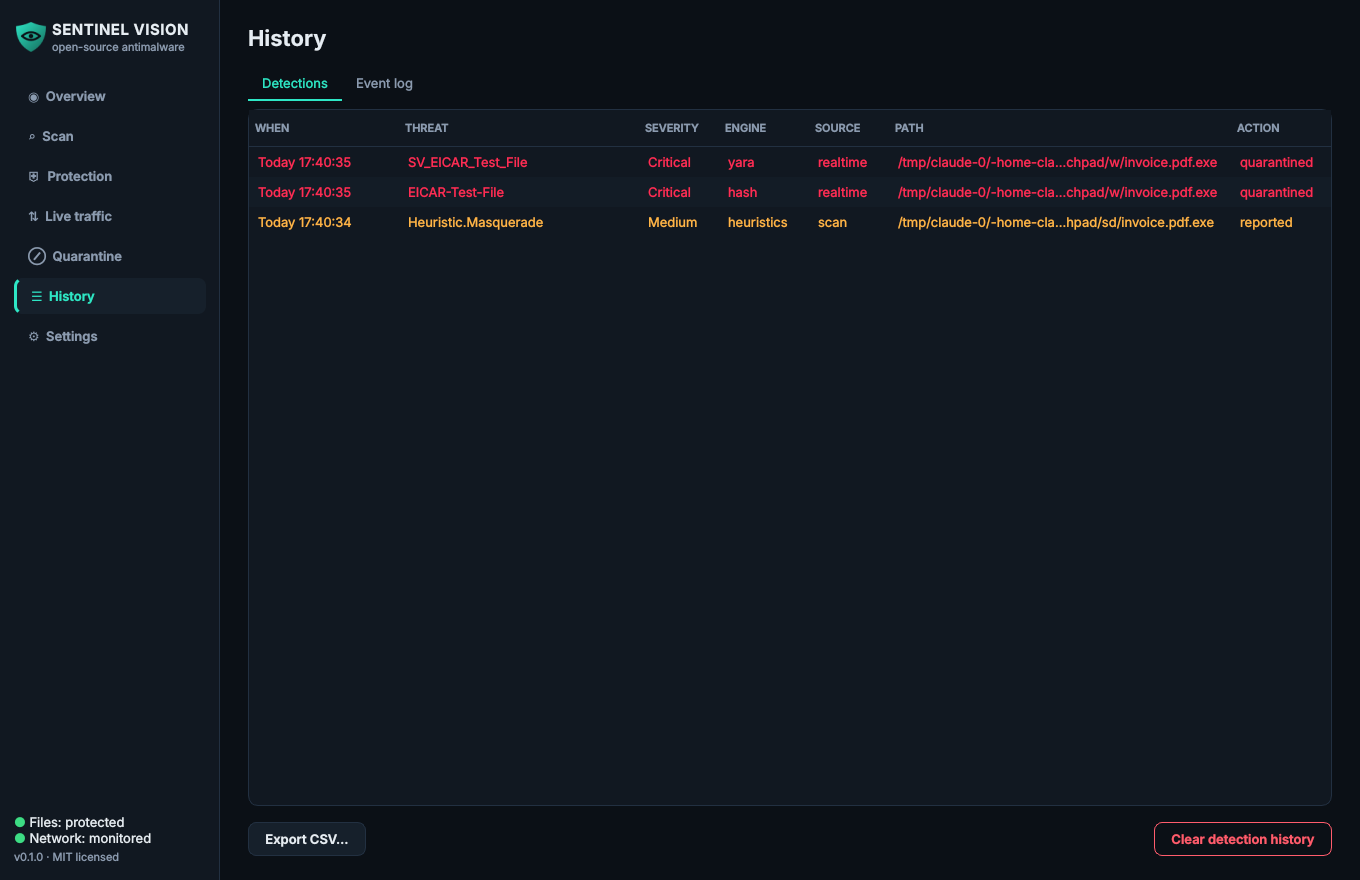
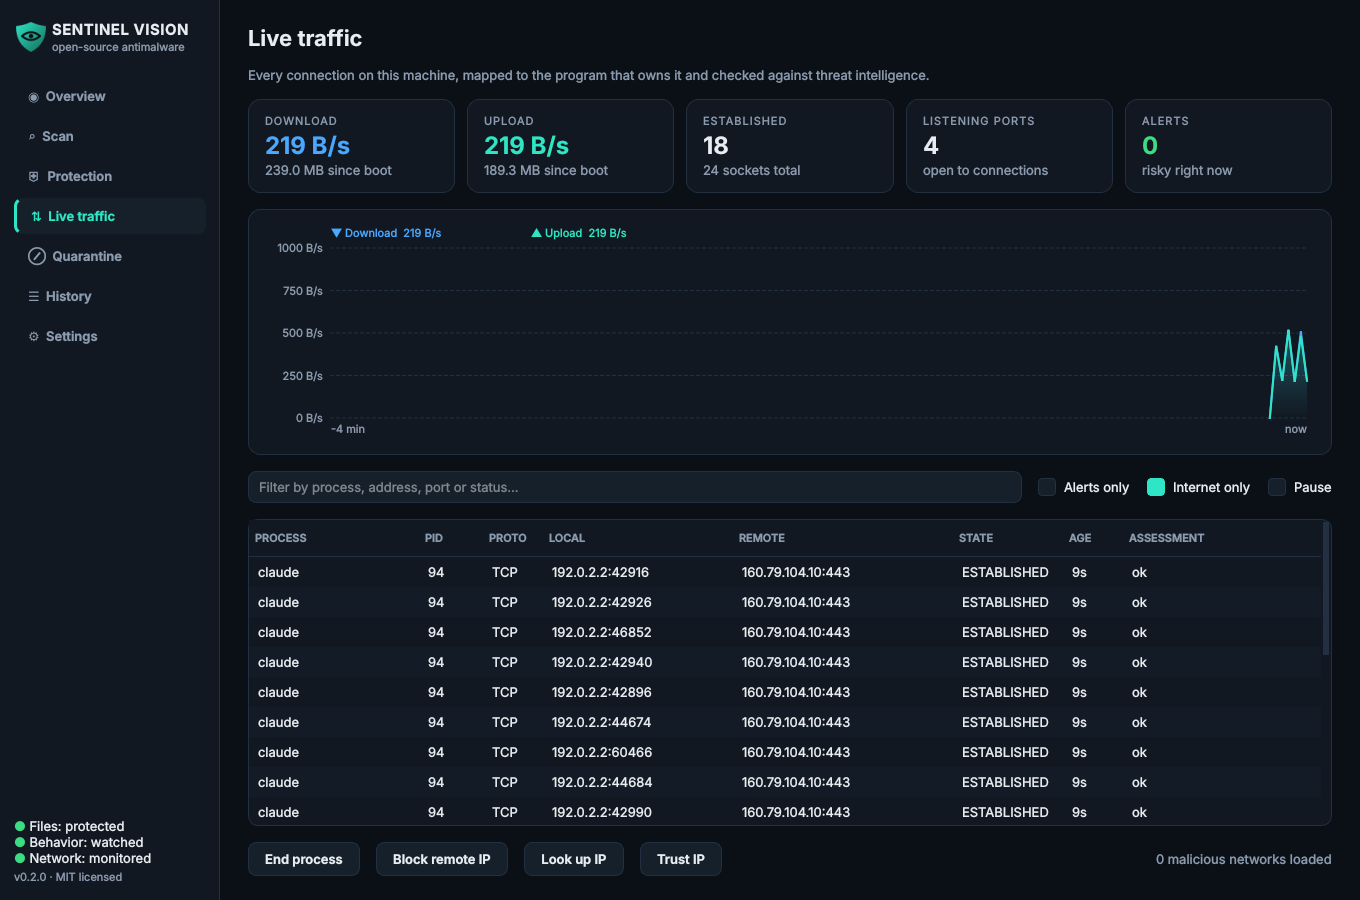
Protection page layout, immediate status refresh, new screenshots
Claude-Session: https://claude.ai/code/session_01F3XASzDbT4cmYSRrZSRKnz

diff --git a/src/sentinel_vision/gui/pages/protection.py b/src/sentinel_vision/gui/pages/protection.py
@@ -46,7 +46,6 @@ class ProtectionPage(Page):
         left.addWidget(self.state)
         left.addWidget(self.behavior_toggle)
         left.addWidget(self.net_toggle)
-        left.addStretch(1)
         self.auto_q = QCheckBox("Quarantine signature detections automatically")
         self.kill_mal = QCheckBox("End programs confirmed as malware")
         self.kill_ransom = QCheckBox("Stop ransomware from deleting backups")
@@ -55,21 +54,20 @@ class ProtectionPage(Page):
         right.addWidget(self.auto_q)
         right.addWidget(self.kill_mal)
         right.addWidget(self.kill_ransom)
-        right.addStretch(1)
         cols.addLayout(left, 1)
         cols.addLayout(right, 1)
         sl.addLayout(cols)
-        top.addWidget(sw_card, 3)
+        top.addWidget(sw_card, 1)
+        self.root.addLayout(top)
 
-        stats = QVBoxLayout()
+        stats = QHBoxLayout()
         stats.setSpacing(12)
         self.c_scanned = StatCard("Files checked")
         self.c_blocked = StatCard("Threats stopped")
         self.c_procs = StatCard("Programs checked")
         for c in (self.c_scanned, self.c_blocked, self.c_procs):
             stats.addWidget(c)
-        top.addLayout(stats, 1)
-        self.root.addLayout(top)
+        self.root.addLayout(stats)
 
         if sys.platform == "darwin":
             mac, ml = card()
@@ -90,7 +88,7 @@ class ProtectionPage(Page):
         f_card, fl = card()
         fl.addWidget(label("Protected folders", "h2"))
         self.folders = QListWidget()
-        self.folders.setMaximumHeight(130)
+        self.folders.setMaximumHeight(96)
         fl.addWidget(self.folders)
         row = QHBoxLayout()
         self.b_add = QPushButton("Add folder…")

diff --git a/src/sentinel_vision/gui/app.py b/src/sentinel_vision/gui/app.py
@@ -172,7 +172,7 @@ class MainWindow(QMainWindow):
         self.bridge.realtime_result.connect(self._on_realtime)
         self.bridge.network_alert.connect(self._on_network_alert)
         self.bridge.behavior_alert.connect(self._on_behavior_alert)
-        self.bridge.status_changed.connect(self._update_status)
+        self.bridge.status_changed.connect(self.refresh_now)
         self.bridge.app_update_requested.connect(lambda: self.check_app_update(manual=True))
 
         self.timer = QTimer(self)
@@ -315,6 +315,16 @@ class MainWindow(QMainWindow):
             page.refresh()
         if self._ticks % 10 == 0:
             self._update_status()
+
+    def refresh_now(self) -> None:
+        """Re-evaluate status everywhere immediately (e.g. right after protection started)."""
+        dash = self.pages.get("overview")
+        if dash is not None and hasattr(dash, "_last_slow"):
+            dash._last_slow = 0.0
+        self._update_status()
+        current = self.stack.currentWidget()
+        if current is not None:
+            current.refresh()
 
     def _update_status(self) -> None:
         s = self.sentinel
@@ -495,7 +505,7 @@ def main() -> int:
         server.newConnection.connect(lambda: (server.nextPendingConnection(), win.show_normal()))
 
     sentinel.start_protection()
-    win._update_status()
+    win.refresh_now()
 
     if minimized and QSystemTrayIcon.isSystemTrayAvailable():
         pass  # started at sign-in: stay in the tray
